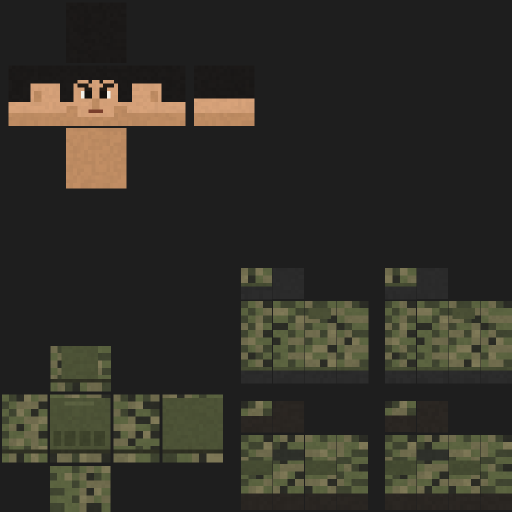
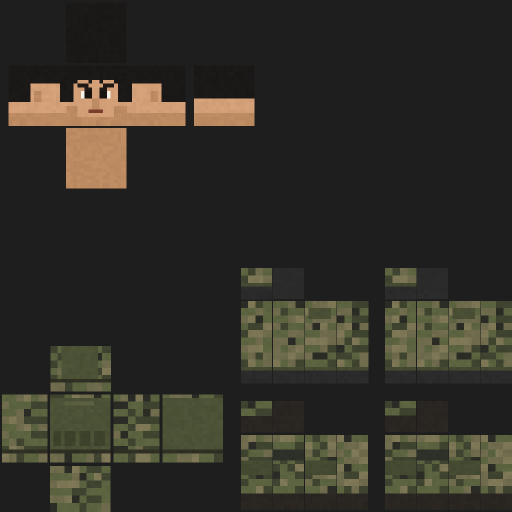
지금 바로 쏴! v43: 버튼 탭이 사격으로 새던 것 수정(아이폰), 아군 전투모·북한군 붉은 별 정모로 아이콘과 통일
Claude-Session: https://claude.ai/code/session_01S8HeT6WXLFVQpayfak2kjP

diff --git a/shoot-right-now/rail.js b/shoot-right-now/rail.js
@@ -151,6 +151,7 @@
       #railNade{right:max(88px,calc(env(safe-area-inset-right) + 88px));background:radial-gradient(circle at 50% 30%,rgba(108,92,46,.92),rgba(34,28,12,.92))}
       #railNade:active,#railReload:active{transform:scale(.93)}
       #railNade svg,#railReload svg{width:36px;height:36px;display:block;filter:drop-shadow(0 2px 2px rgba(0,0,0,.5))}
+      #railNade *,#railReload *,#railPause *{pointer-events:none}
       #railNade .cnt{position:absolute;right:-4px;top:-4px;min-width:22px;height:22px;padding:0 5px;border-radius:11px;background:#ffcf4a;color:#1b1406;
         font:900 13px/22px ui-monospace,monospace;text-align:center;box-shadow:0 2px 6px rgba(0,0,0,.5);border:2px solid #1b1406}
       #railNade.empty{filter:grayscale(1) brightness(.6)}
@@ -3076,7 +3077,7 @@
   const KCH = { ready: false, src: null, tex: {}, mat: {}, dead: {}, kit: {} };
   const kTex = (k) => {
     if (KCH.tex[k]) return KCH.tex[k];
-    const t = new T.TextureLoader().load("models/characters/skins/" + k + ".png?v=42");
+    const t = new T.TextureLoader().load("models/characters/skins/" + k + ".png?v=43");
     t.flipY = false; t.encoding = T.sRGBEncoding; t.magFilter = T.NearestFilter;
     t.wrapS = t.wrapT = T.RepeatWrapping; t.anisotropy = 4;
     return (KCH.tex[k] = t);
@@ -3233,7 +3234,20 @@
     shinL.position.y = -0.5; shinR.position.y = -0.5; legL.add(shinL); legR.add(shinR);
     /* head gear, in the head's own units (the head block is 8 wide) */
     const B = (par, w, h, d, x, y, z, m) => { const b = new T.Mesh(new T.BoxGeometry(w, h, d), m); b.position.set(x, y, z); par.add(b); return b; };
-    if (skin === "rok" || uni) {
+    /* (v43) a red star in blocks: a centre, four points and a ring of
+       half-steps, flat on the cap front (in head units) */
+    const redStar = (par, x, y, z, sc) => {
+      const rm = kKit("#c8231c", 0.5);
+      B(par, 0.9 * sc, 0.9 * sc, 0.35, x, y, z, rm);
+      [[0, 1], [0.95, 0.31], [0.59, -0.81], [-0.59, -0.81], [-0.95, 0.31]].forEach(([dx, dy]) => B(par, 0.55 * sc, 0.55 * sc, 0.35, x + dx * 0.85 * sc, y + dy * 0.85 * sc, z, rm));
+    };
+    if (skin === "rok") {
+      /* (v43) the ally in the icon's look: a soft patrol cap and the camo
+         shirt itself, no helmet and no plate carrier */
+      const cm = kKit("#3e482c", 0.9);
+      B(head, 9.6, 2.4, 9.6, 0, 9.3, -0.2, cm); B(head, 9.0, 0.3, 9.0, 0, 10.6, -0.2, kKit("#37402a", 0.9));
+      B(head, 9.2, 0.5, 3.4, 0, 8.3, 5.4, kKit("#343d26", 0.9));
+    } else if (uni) {
       const hm = kKit(UNI_HELM[skin] || "#4f5538"), dk = kKit(skin === "u-guard" ? "#c9a84a" : "#2c2c26");
       B(head, 9.6, 3.4, 9.8, 0, 9.5, 0, hm); B(head, 8.6, 1.0, 8.8, 0, 11.6, 0, hm); B(head, 10.0, 0.6, 10.2, 0, 7.9, 0, uni ? hm : kKit("#454a31"));
       B(head, 0.5, 1.2, 6.0, 4.95, 9.0, 0, dk); B(head, 0.5, 1.2, 6.0, -4.95, 9.0, 0, dk); B(head, 1.8, 1.4, 0.9, 0, 10.2, 5.0, dk);
@@ -3250,10 +3264,22 @@
       B(cap, 10.4, 2.2, 10.8, 0, 9.5, -0.2, kKit("#4a4a2e")); B(cap, 9.4, 1.3, 9.6, 0, 8.2, 0, kKit("#a8231c"));
       B(cap, 9.4, 0.4, 3.4, 0, 7.6, 5.4, kKit("#111111", 0.3)); B(cap, 2.2, 1.6, 0.4, 0, 9.6, 5.5, kKit("#e0b440", 0.35));
       B(torso, 0.18, 0.24, 0.14, 0.36, 0.42, 0.2, kKit("#3a2416"));   // holster
+    } else if (!civ && !tough) {
+      /* (v43) the enemy rifleman in the icon's look: an olive peaked cap
+         with a red band and a red star */
+      const cm = kKit("#4a4e30", 0.85);
+      B(head, 10.6, 2.6, 10.8, 0, 10.0, -0.2, cm); B(head, 9.8, 0.4, 10.0, 0, 11.4, -0.2, kKit("#44482c", 0.85));
+      B(head, 9.7, 1.4, 9.9, 0, 8.4, 0, kKit("#b8231c", 0.6));
+      B(head, 9.6, 0.45, 3.4, 0, 7.75, 5.5, kKit("#3a3d26", 0.6));
+      redStar(head, 0, 10.0, 5.45, 1);
+      const pch = kKit("#5a4a2c");
+      B(torso, 0.16, 0.42, 0.12, -0.28, 0.8, 0.34, pch); B(torso, 0.16, 0.42, 0.12, 0.28, 0.8, 0.34, pch);
+      if (role === "throw") B(torso, 0.5, 0.56, 0.24, 0, 0.78, -0.42, kKit("#4a4a30"));
     } else if (!civ) {
       const hm = kKit(tough ? "#3f4429" : "#4b5232");
       B(head, 9.2, 3.8, 9.4, 0, 9.7, 0, hm); B(head, 8.0, 1.0, 8.2, 0, 12.0, 0, hm); B(head, 9.8, 0.5, 10.0, 0, 7.7, 0, kKit(tough ? "#363a24" : "#434929"));
       B(head, 0.3, 3.2, 0.3, 4.5, 6.6, 1.0, kKit("#5a3e24")); B(head, 0.3, 3.2, 0.3, -4.5, 6.6, 1.0, kKit("#5a3e24"));
+      redStar(head, 0, 10.0, 4.85, 0.8);
       const pch = kKit("#5a4a2c");
       B(torso, 0.16, 0.42, 0.12, -0.28, 0.8, 0.34, pch); B(torso, 0.16, 0.42, 0.12, 0.28, 0.8, 0.34, pch);
       if (role === "throw") B(torso, 0.5, 0.56, 0.24, 0, 0.78, -0.42, kKit("#4a4a30"));
@@ -8148,6 +8174,8 @@
       '<path d="M28.6 8.6l-.6 5.4-5.2-1.2z" fill="#7fd0ff"/><path d="M30.5 20a10.5 10.5 0 0 1-17.6 7.7" stroke="#7fd0ff" stroke-width="2.6" fill="none" stroke-linecap="round"/><path d="M11.4 31.4l.6-5.4 5.2 1.2z" fill="#7fd0ff"/></svg>';
     btn.setAttribute("aria-label", "reload");
     btn.addEventListener("pointerdown", (e) => { e.preventDefault(); e.stopPropagation(); window.RAIL.reload(); });
+    btn.addEventListener("touchstart", (e) => { e.preventDefault(); e.stopPropagation(); }, { passive: false });
+    btn.addEventListener("mousedown", (e) => { e.preventDefault(); e.stopPropagation(); });
     document.body.appendChild(btn);
     const nb = document.createElement("button");
     nb.id = "railNade";
@@ -8157,6 +8185,8 @@
       '<circle cx="11.5" cy="10.5" r="3.6" fill="none" stroke="#ffd36a" stroke-width="2"/><path d="M14.6 11.6l1.6 .6" stroke="#ffd36a" stroke-width="2"/></svg><b class="cnt">2</b>';
     nb.setAttribute("aria-label", "grenade");
     nb.addEventListener("pointerdown", (e) => { e.preventDefault(); e.stopPropagation(); window.RAIL.grenade(); });
+    nb.addEventListener("touchstart", (e) => { e.preventDefault(); e.stopPropagation(); }, { passive: false });
+    nb.addEventListener("mousedown", (e) => { e.preventDefault(); e.stopPropagation(); });
     document.body.appendChild(nb);
     const pbt = document.createElement("button");
     pbt.id = "railPause";
@@ -8164,6 +8194,8 @@
     pbt.setAttribute("aria-label", "pause");
     pbt.innerHTML = '<svg viewBox="0 0 24 24" aria-hidden="true"><rect x="6" y="5" width="4.2" height="14" rx="1.2" fill="#fff"/><rect x="13.8" y="5" width="4.2" height="14" rx="1.2" fill="#fff"/></svg>';
     pbt.addEventListener("pointerdown", (e) => { e.preventDefault(); e.stopPropagation(); openPause(window.__railCtx); });
+    pbt.addEventListener("touchstart", (e) => { e.preventDefault(); e.stopPropagation(); }, { passive: false });
+    pbt.addEventListener("mousedown", (e) => { e.preventDefault(); e.stopPropagation(); });
     document.body.appendChild(pbt);
     if (!window.__railPauseKeys) {
       window.__railPauseKeys = 1;
@@ -8179,10 +8211,18 @@
       window.__railKeys = 1;
       const aimAt = (e) => { if (e) pointerFrom(e); };
       addEventListener("pointermove", (e) => { if (e.pointerType === "mouse") aimAt(e); });
+      /* (v43) a tap on a button never fires: the tap lands on the button's
+         svg/path child (not the button itself), and on iPhones a touch also
+         sends a late "mousedown" — both used to slip past the old id test */
+      const onUi = (t) => !!(t && t.closest && t.closest("button,#railReload,#railNade,#railPause,#railResult,#mgTitle,#railPauseMenu,#railCont,#mgModal"));
+      let lastTouch = 0;
+      addEventListener("touchstart", () => { lastTouch = performance.now(); }, { capture: true, passive: true });
       const shootAt = (e) => {
         if (!active || ended) return;
         if (pauseOpen) return;
-        if (e.target && (e.target.id === "railReload" || e.target.id === "railNade" || e.target.id === "railPause" || e.target.closest && e.target.closest("#railResult,#mgTitle"))) return;
+        if (onUi(e.target)) return;
+        if (e.type === "mousedown" && performance.now() - lastTouch < 900) return;
+        if (e.pointerType === "touch") lastTouch = performance.now();
         if (e.button === 2) { window.RAIL.reload(); return; }
         if (e.button != null && e.button !== 0) return;
         aimAt(e);
@@ -8192,7 +8232,7 @@
       addEventListener("pointerdown", (e) => {
         shootAt(e);
         if (e.button == null || e.button === 0) {
-          if (!(e.target && e.target.closest && e.target.closest("#railReload,#railNade,#railResult,#mgTitle"))) holding = true;
+          if (!onUi(e.target)) holding = true;
         }
       });
       addEventListener("mousedown", shootAt);

diff --git a/shoot-right-now/en.html b/shoot-right-now/en.html
@@ -76,6 +76,6 @@
 <script src="profile.js?v=39"></script>
 <script src="engine.js?v=29"></script>
 <script src="gun-sfx.js?v=33"></script>
-<script src="rail.js?v=42"></script>
+<script src="rail.js?v=43"></script>
 </body>
 </html>

diff --git a/shoot-right-now/index.html b/shoot-right-now/index.html
@@ -75,6 +75,6 @@
 <script src="profile.js?v=39"></script>
 <script src="engine.js?v=29"></script>
 <script src="gun-sfx.js?v=33"></script>
-<script src="rail.js?v=42"></script>
+<script src="rail.js?v=43"></script>
 </body>
 </html>

diff --git a/shoot-right-now/HANDOFF.md b/shoot-right-now/HANDOFF.md
@@ -433,6 +433,10 @@ Stage 1(서울)은 손대지 않았고, 그 뒤에 **Stage 2**를 붙였다. 두
 - **v2**: 레일 슈터 골격(`baro-baro-jump` 엔진 위에 얹었다가 이후 완전 분리).
 - **v1**: `baro-baro-jump` HTML을 fetch/DOMParser로 재파싱해 쓰던 시절 → **지금은 금지된 구조**. 독립 빌드로 되돌리지 말 것.
 
+## 4-4. v43 — 아이콘 군복 + 세로 화면 버튼 탭이 사격으로 새던 것 (2026-11-23)
+- 버튼 탭 버그: 탭이 버튼 안 svg/path에 떨어져 id 검사(`e.target.id`)를 통과하고, 아이폰은 터치 뒤에 늦은 `mousedown`을 또 보내 그 자리에 사격됨. `onUi()`(closest로 버튼·메뉴·모달 판별), 터치 후 0.9초 안의 mousedown 무시, 버튼에 touchstart/mousedown 차단, 버튼 내부 요소 `pointer-events:none`.
+- 아이콘 군복: 아군(`rok`)은 철모·방탄조끼 대신 전투모 + 디지털 위장 셔츠(단추·주머니, 검은 혁대·은색 버클, `modern(...,novest=True)`). 북한군 소총수(`nk`)는 붉은 띠·빨간 별 정모, 더 짙은 올리브 군복(금단추·금 버클). 정예(`nkt`)는 철모에 빨간 별. 플레이어 군복 `u-army`는 조끼형 그대로 별도 생성. 스킨 `?v=43`, rail.js v43.
+
 ## 4-5. v42 — 아이콘풍 얼굴 (2026-11-23)
 - 모든 스킨 얼굴을 앱 아이콘 그림체로 다시 그림(`/tmp/paint2.py`의 `face`): 굵은 검은 머리 블록 + 앞머리·구레나룻, 안쪽이 내려간 굵은 눈썹(군인), 흰자+검은 눈동자 2줄 눈, 짧은 입, 볼·턱 그늘. 민간인은 걱정스러운 눈썹(`worried`). 사망 표정은 >_< 그대로. 스킨 URL `?v=42`. rail.js v42.
 
